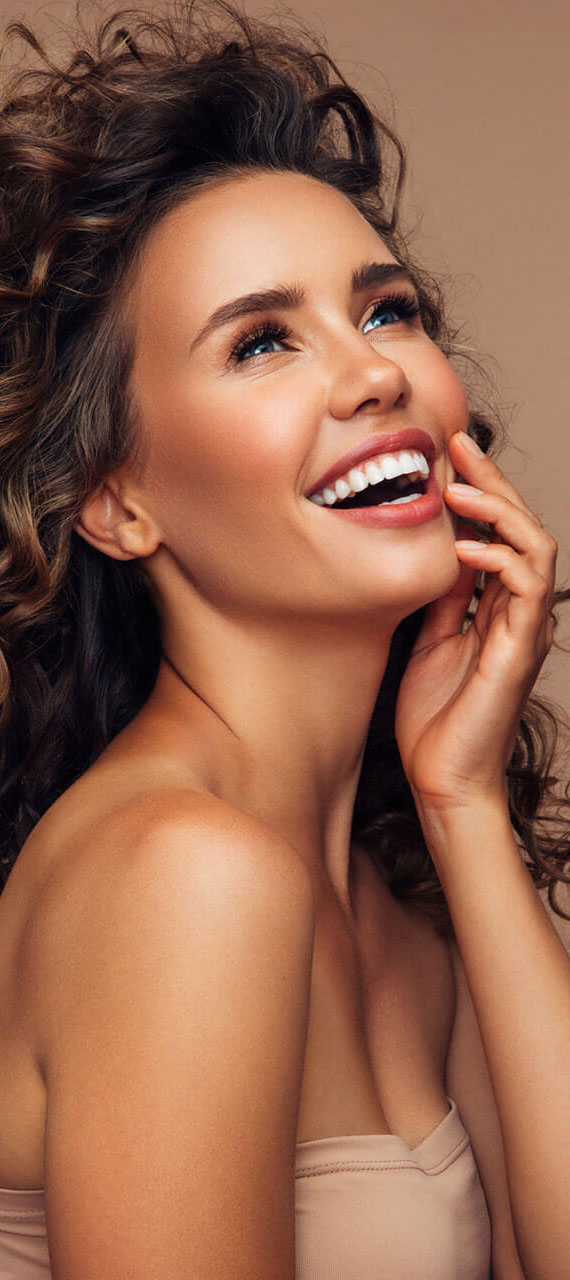
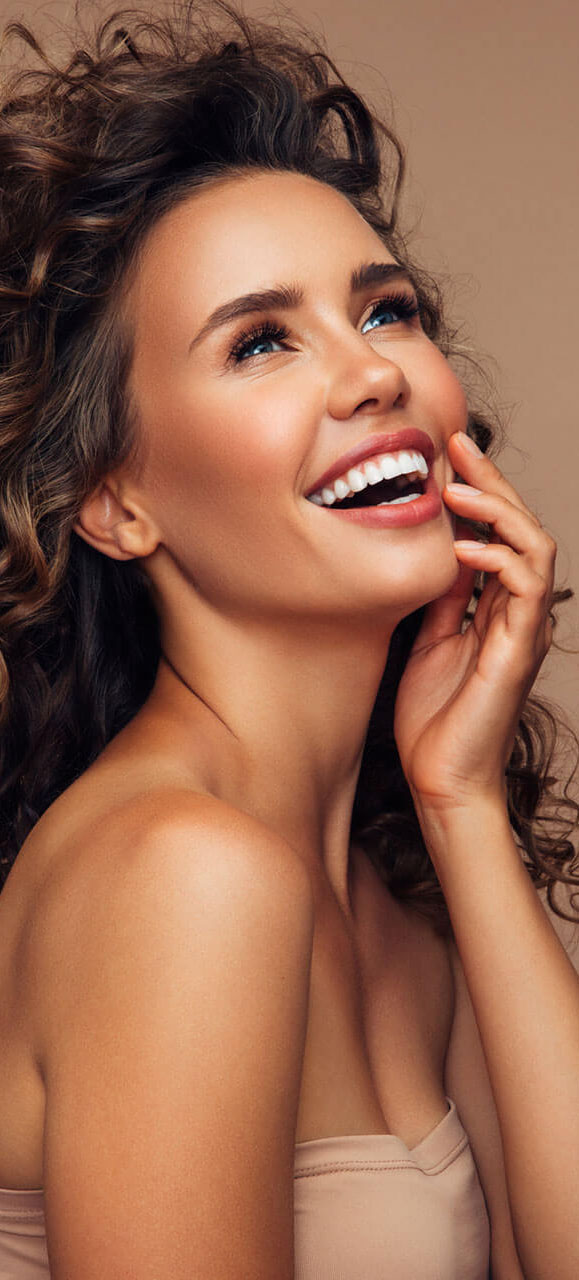
index

diff --git a/assets/css/style.css b/assets/css/style.css
@@ -356,7 +356,7 @@
     margin-left: 30px;
   }
   .slider{
-    height: 102vh;
+    height: 100vh;
   }
   
   
